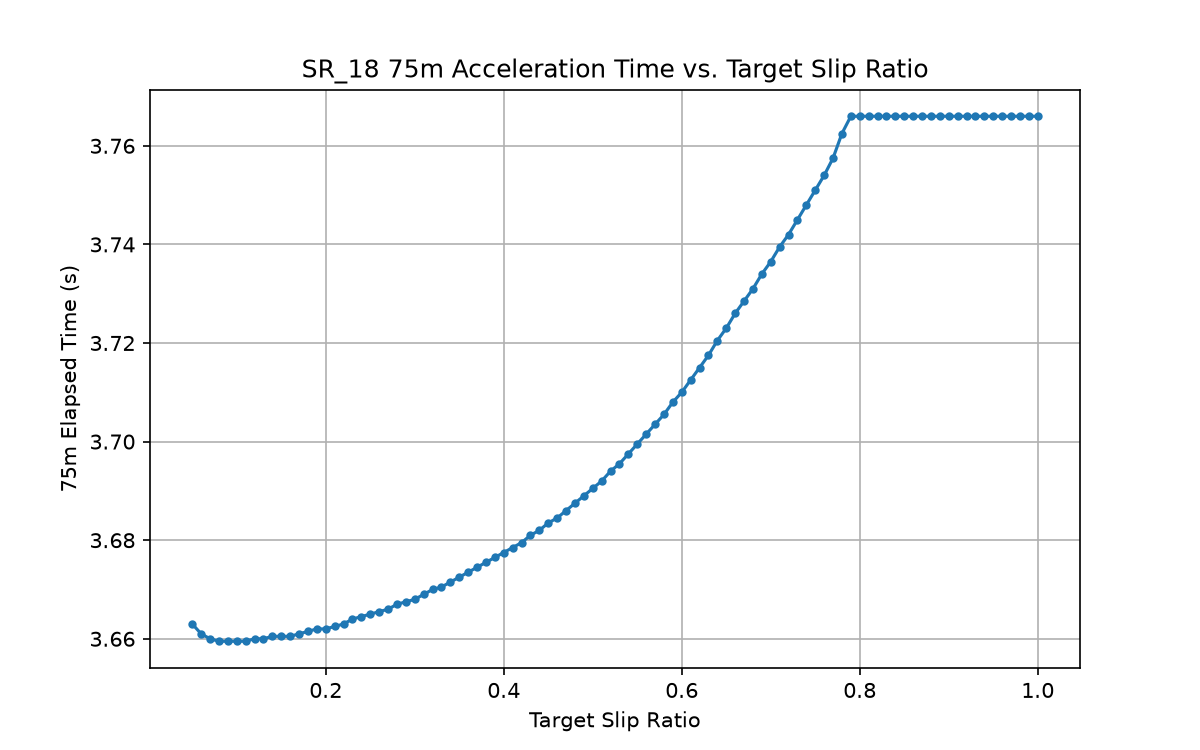
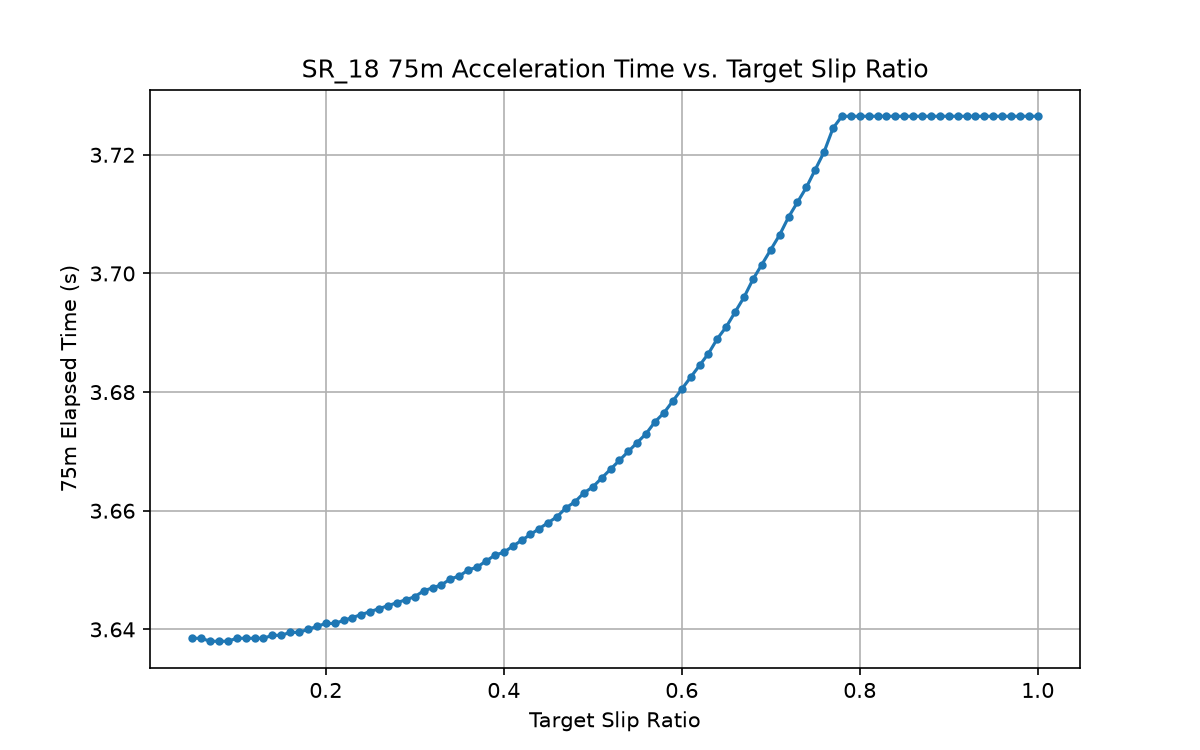
LocalSim Accel defaults: 8 psi for both cars, SR_17 final drive 3.5
Each Accel script builds its car through make_car() with its own TIRE_PSI (and
FINAL_DRIVE_RATIO for SR_17), so the baseline and every sweep start there. The
car configs, and so the other sims, keep their own values. Outputs regenerated.

diff --git a/LocalSim/Sims/Acceleration_AWD.py b/LocalSim/Sims/Acceleration_AWD.py
@@ -1,3 +1,7 @@
+# Accel setup: the baseline and every sweep start from this tire pressure instead of
+# SR_18's own default (12 psi, which the other sims keep)
+TIRE_PSI = 8.0
+
 # Sweep settings: turn each sweep on/off and set its range as (start, end, step),
 # end included. Each sweep re-runs the full sim once per value.
 RUN_FINAL_DRIVE_RATIO_SWEEP = True
@@ -20,6 +24,10 @@ sys.path.insert(0, str(RESOURCES_DIR / "Car_Setups"))
 import numpy as np
 import matplotlib.pyplot as plt
 from SR_18 import SR_18
+
+def make_car():
+    """SR_18 set up for Accel (TIRE_PSI)."""
+    return SR_18(tire_pressure_psi=TIRE_PSI)
 
 def simulate_75m_accel(car, target_distance=75.0, dt=0.0005):
     """Simulates a straight-line run over target_distance (m) using semi-implicit
@@ -272,7 +280,7 @@ def simulate_75m_accel(car, target_distance=75.0, dt=0.0005):
     return t, log
 
 # Baseline run
-sr18_car = SR_18()
+sr18_car = make_car()
 elapsed_time, sim_log = simulate_75m_accel(sr18_car)
 
 print(f"--- FSAE 75m Acceleration Simulation (4-Motor AWD Electric) ---")
@@ -303,7 +311,7 @@ if RUN_FINAL_DRIVE_RATIO_SWEEP:
     final_drive_ratios = sweep_values(*FINAL_DRIVE_RATIO_RANGE)
     accel_times_vs_ratio = []
     for ratio in final_drive_ratios:
-        sweep_car = SR_18()
+        sweep_car = make_car()
         sweep_car.final_drive_ratio = ratio
         sweep_time, _ = simulate_75m_accel(sweep_car)
         accel_times_vs_ratio.append(sweep_time)
@@ -323,7 +331,7 @@ if RUN_TORQUE_SPLIT_SWEEP:
     torque_splits = sweep_values(*TORQUE_SPLIT_RANGE)
     accel_times_vs_split = []
     for split in torque_splits:
-        sweep_car = SR_18()
+        sweep_car = make_car()
         sweep_car.torque_split_front = split
         sweep_time, _ = simulate_75m_accel(sweep_car)
         accel_times_vs_split.append(sweep_time)
@@ -345,7 +353,7 @@ if RUN_TARGET_SLIP_RATIO_SWEEP:
     target_slip_ratios = sweep_values(*TARGET_SLIP_RATIO_RANGE)
     accel_times_vs_slip = []
     for tsr in target_slip_ratios:
-        sweep_car = SR_18()
+        sweep_car = make_car()
         sweep_car.enable_launch_control = True
         sweep_car.target_slip_ratio = tsr
         sweep_time, _ = simulate_75m_accel(sweep_car)

diff --git a/LocalSim/Sims/Acceleration_RWD.py b/LocalSim/Sims/Acceleration_RWD.py
@@ -1,3 +1,8 @@
+# Accel setup: the baseline and every sweep start from these instead of SR_17's own
+# defaults (which the other sims keep: 8 psi, final drive 2.7)
+TIRE_PSI = 8.0
+FINAL_DRIVE_RATIO = 3.5
+
 # Sweep settings: turn each sweep on/off and set its range as (start, end, step),
 # end included. Each sweep re-runs the full sim once per value.
 RUN_FINAL_DRIVE_RATIO_SWEEP = True
@@ -17,6 +22,12 @@ sys.path.insert(0, str(RESOURCES_DIR / "Car_Setups"))
 import numpy as np
 import matplotlib.pyplot as plt
 from SR_17 import SR_17
+
+def make_car():
+    """SR_17 set up for Accel (TIRE_PSI, FINAL_DRIVE_RATIO)."""
+    car = SR_17(tire_pressure_psi=TIRE_PSI)
+    car.final_drive_ratio = FINAL_DRIVE_RATIO
+    return car
 
 def simulate_75m_accel(car, target_distance=75.0, dt=0.0005, locked_diff=True):
     """Simulates a straight-line run over target_distance (m) using semi-implicit
@@ -195,7 +206,7 @@ def simulate_75m_accel(car, target_distance=75.0, dt=0.0005, locked_diff=True):
     return t, log
 
 # Baseline run
-fsae_car = SR_17()
+fsae_car = make_car()
 elapsed_time, sim_log = simulate_75m_accel(fsae_car)
 
 print(f"--- FSAE 75m Acceleration Simulation (Single-Motor RWD Electric, Locked Diff) ---")
@@ -227,7 +238,7 @@ if RUN_FINAL_DRIVE_RATIO_SWEEP:
     final_drive_ratios = sweep_values(*FINAL_DRIVE_RATIO_RANGE)
     accel_times_vs_ratio = []
     for ratio in final_drive_ratios:
-        sweep_car = SR_17()
+        sweep_car = make_car()
         sweep_car.final_drive_ratio = ratio
         sweep_time, _ = simulate_75m_accel(sweep_car)
         accel_times_vs_ratio.append(sweep_time)
@@ -249,7 +260,7 @@ if RUN_TARGET_SLIP_RATIO_SWEEP:
     target_slip_ratios = sweep_values(*TARGET_SLIP_RATIO_RANGE)
     accel_times_vs_slip = []
     for tsr in target_slip_ratios:
-        sweep_car = SR_17()
+        sweep_car = make_car()
         sweep_car.enable_launch_control = True
         sweep_car.target_slip_ratio = tsr
         sweep_time, _ = simulate_75m_accel(sweep_car)
